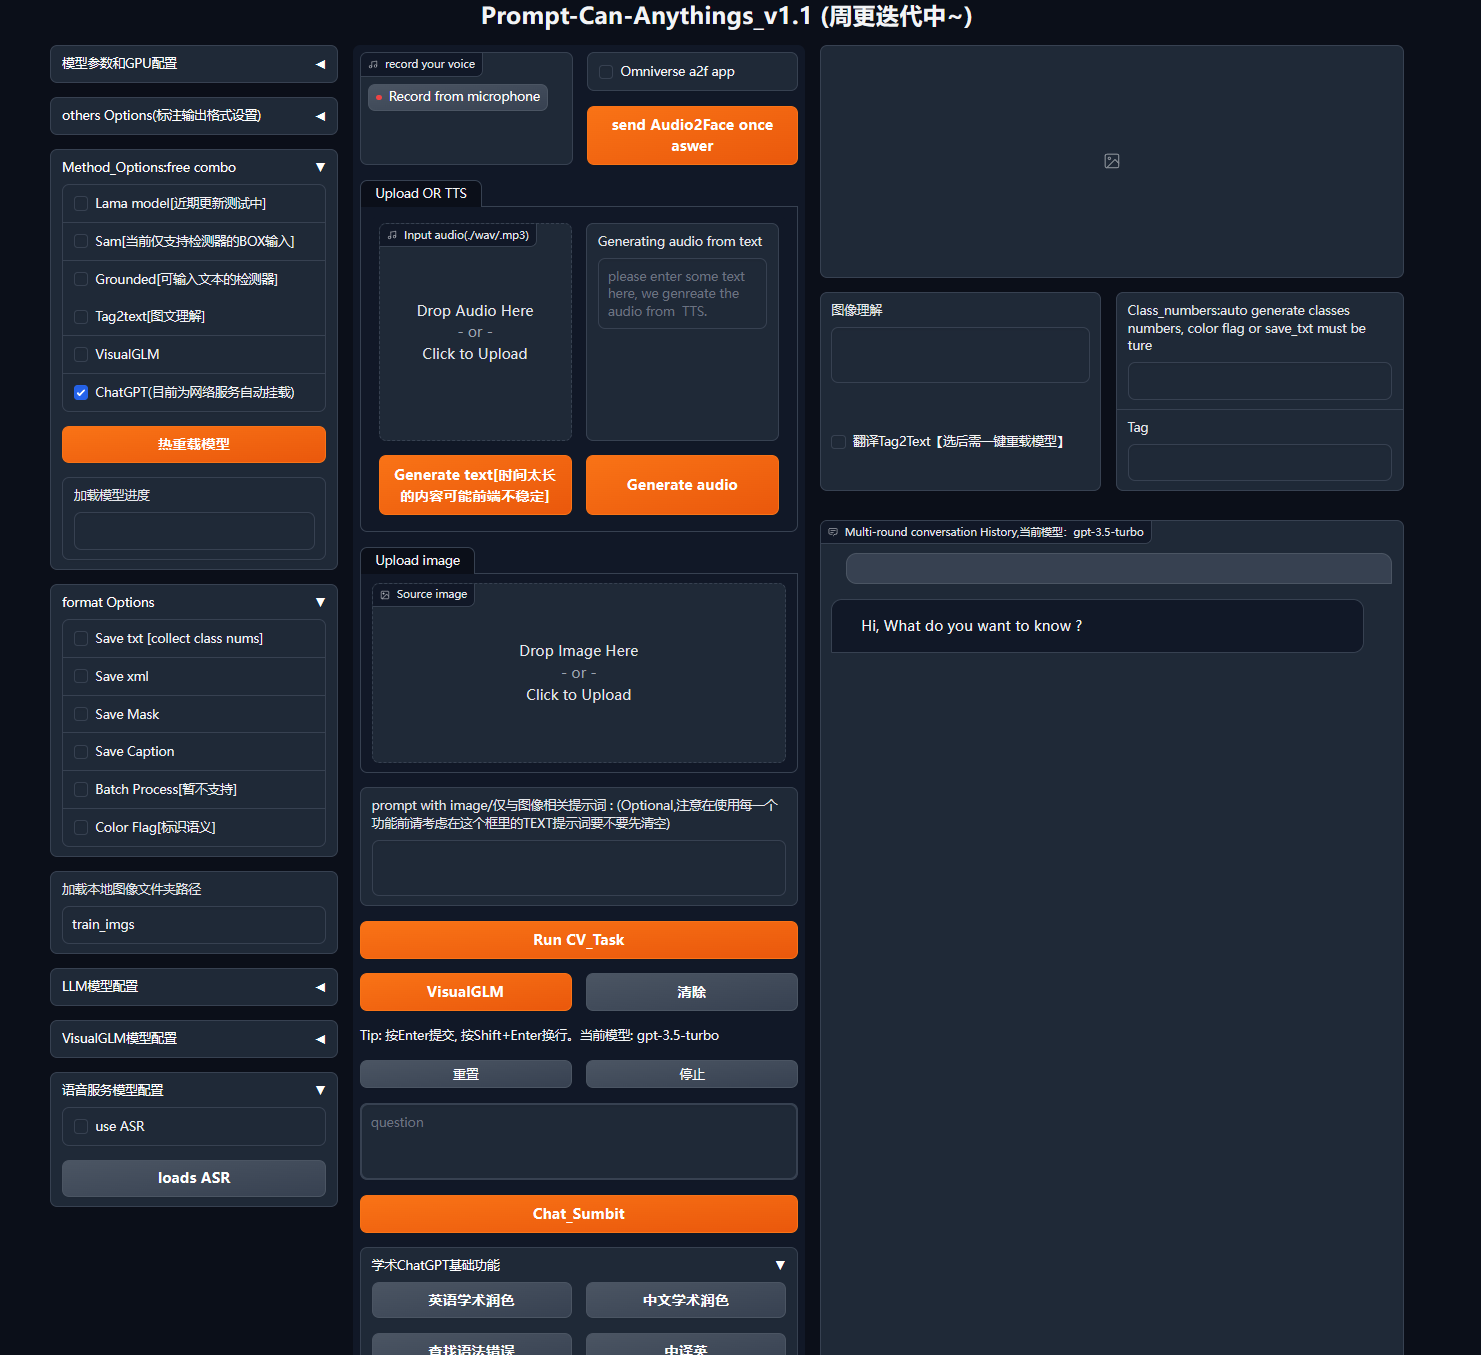
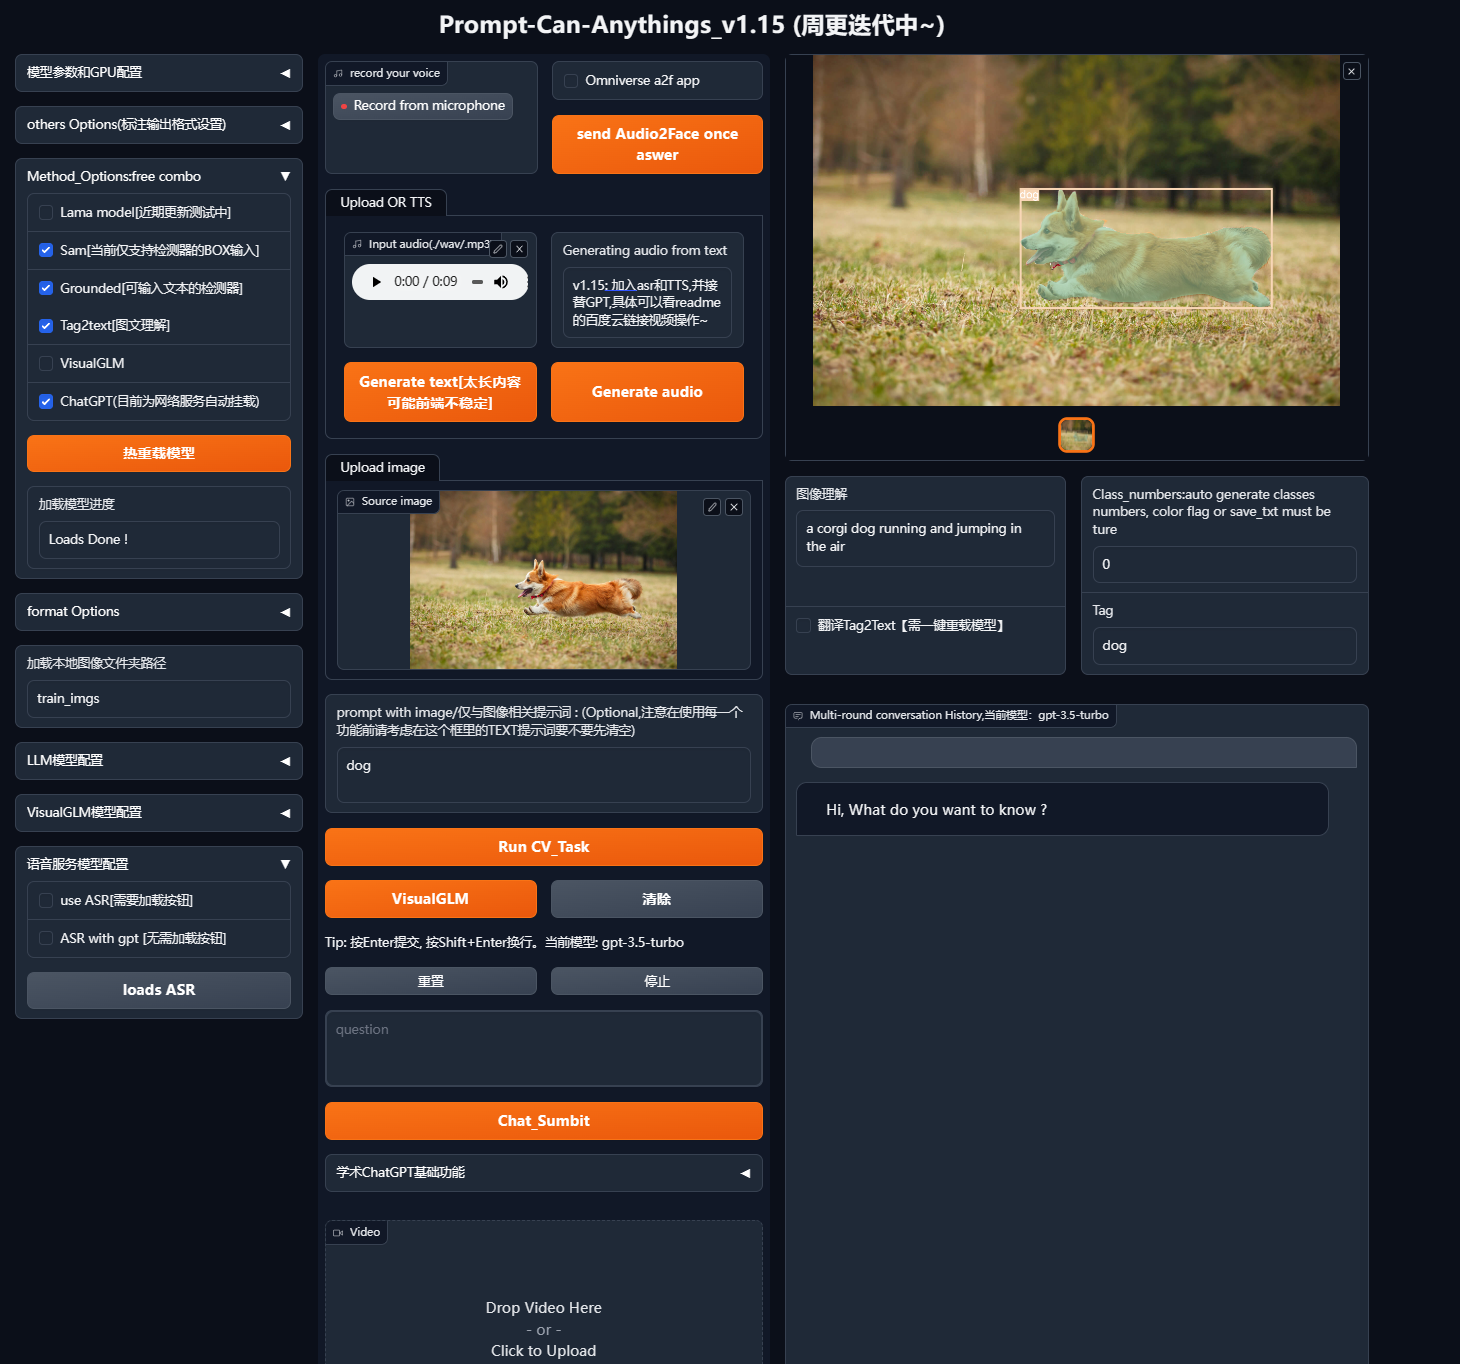
updates

diff --git a/README.md b/README.md
@@ -34,11 +34,13 @@ Complete a role design interaction through a 3D Engine combined with multimodal 
 
 Complete a role design interaction through the Saldtalker open source project and multimodal tasks such as GPT.
 
+
+
  4.  🔥🔥🚀 Unlimited potential “Anything”
 
 Through continuous creativity and accumulation, we will integrate and learn from SOTA AI. We will record each integrated model and provide a detailed explanation and summary in the article. The author will summarize all the AI-related knowledge reserves and engineering experience for the local large model (this part is the final development function and is planned).
 
-
+<img src="asset/v1.15.png" alt="structure" style="zoom: 33%;" />
 
 
 <details open >
@@ -61,7 +63,7 @@ Through continuous creativity and accumulation, we will integrate and learn from
 - One-click fine-tuning button function, adding: SAM
 
 ### <div align="left">⭐[News list] </div>
-	-【2023/6/5】   a vide demo and plan,fix asr bug
+	-【2023/6/5】   v1.15 a vide demo and plan,fix asr bug ,chatgpt with asr and tts 
 	-【2023/5/31】  Fixed the already issue, add tts demo, the Linux platform is tested through all open features
 	-【2023/5/23】  add web demo:Add VisualGLM ,chatgpt from [Academic-gpt](https://github.com/binary-husky/gpt_academic)
 	-【2023/5/7】   add web demo:At present, the function of text generation, detection and segmentation of images or image folders on the website has been tested normally, and the program does not need to be restarted, and the last model loading configuration is remembered, and it will be continuously optimized in the future.
@@ -185,7 +187,8 @@ For PyAudio, it may not be successfully installed through pip on Linux platforms
 
 **🏃Demo**
 
-see [Video demo online on baidu clound ](https://pan.baidu.com/s/1AllUjuOVhzJh7abe71iCxg?pwd=c6v）
+ [Video demo 1 online on baidu clound ](https://pan.baidu.com/s/1AllUjuOVhzJh7abe71iCxg?pwd=c6v）   
+ [ Video demo 2 ] (https://pan.baidu.com/s/1jdP9mgUhyfLh_hz1W3pkeQ?pwd=c6v6)
 
 
 

diff --git a/README_zh.md b/README_zh.md
@@ -42,7 +42,7 @@
 
 	   作者AI相关所有知识储备和工程经验总结给本地大模型（这部分是最终开发功能，计划中）
 
-
+<img src="asset/v1.15.png" alt="structure" style="zoom: 33%;" />
 
 <details open>
 <summary>⭐ 研究 🚀 项目 🔥 灵感（筹备中）</summary>
@@ -187,7 +187,8 @@ pip install --upgrade diffusers[torch]
 
 ## 🏃Demo
 
- [视频Demo介绍 ](https://pan.baidu.com/s/1AllUjuOVhzJh7abe71iCxg?pwd=c6v）
+ [视频Demo介绍 ](https://pan.baidu.com/s/1AllUjuOVhzJh7abe71iCxg?pwd=c6v）  
+ [ Video demo 2 ] (https://pan.baidu.com/s/1jdP9mgUhyfLh_hz1W3pkeQ?pwd=c6v6)
 
 1. 自动标注的测试样例
 
